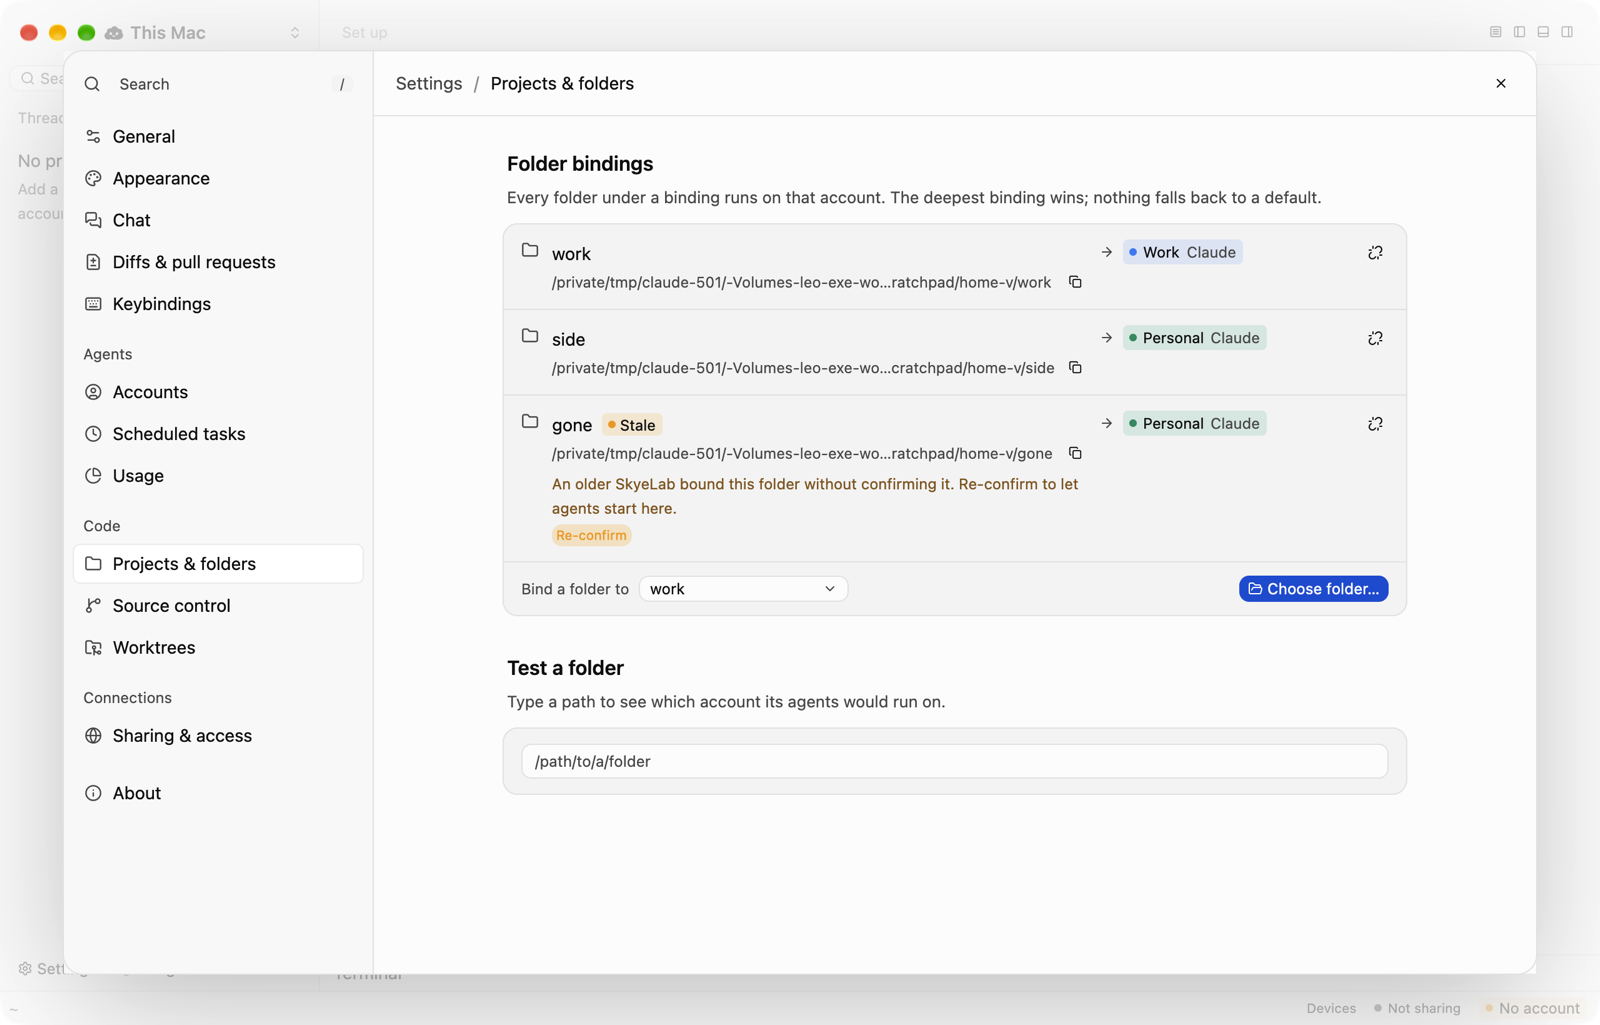
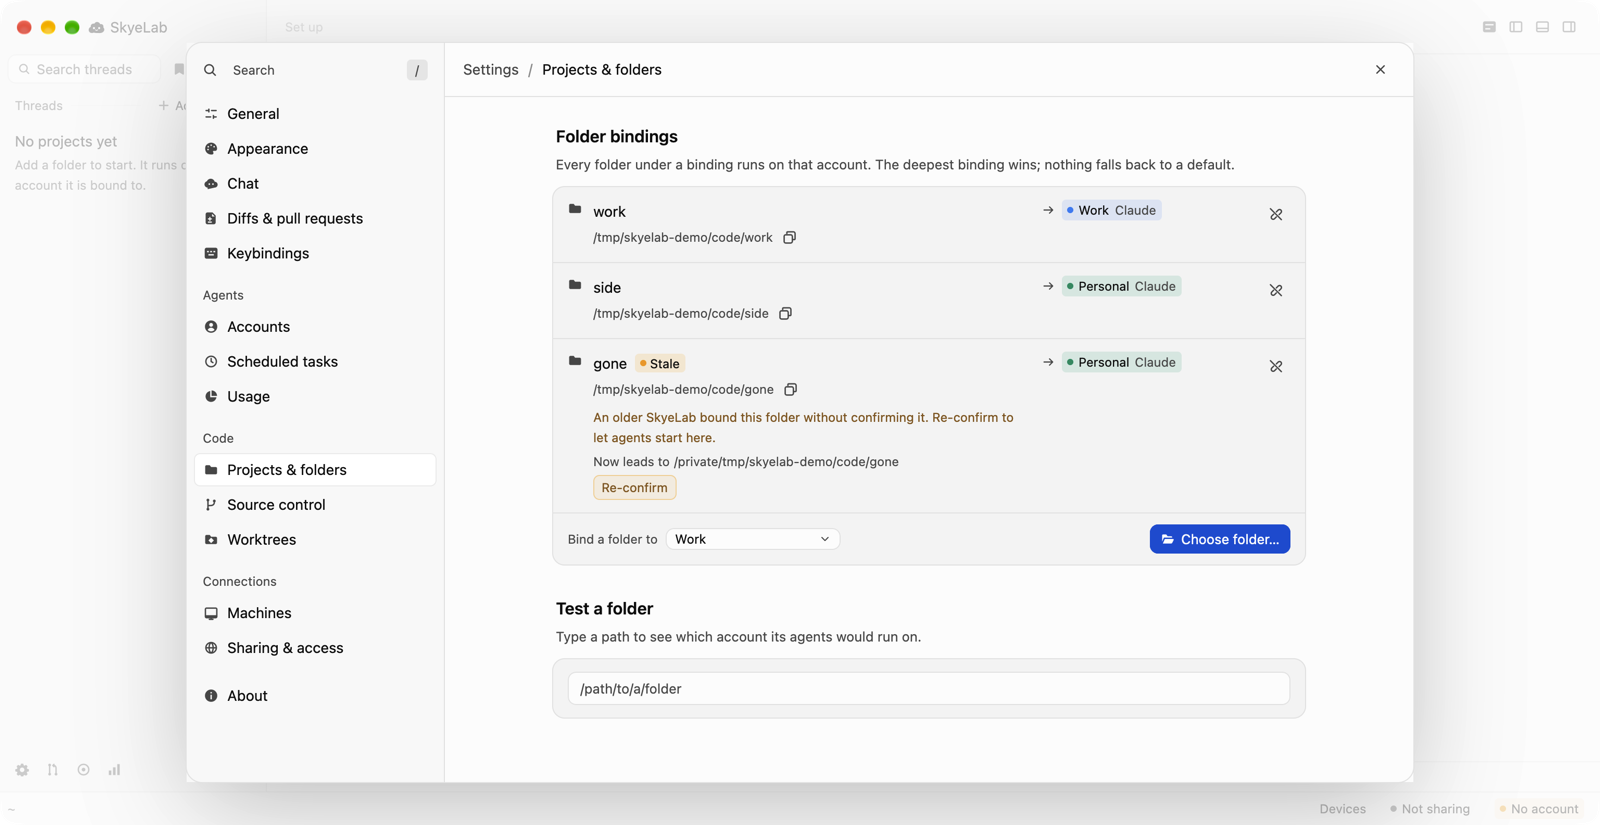
chore: remove personal paths and private-note references before going public
Drop a local clone path and a username from CLAUDE.md and the T3 reference docs, links to the
untracked .agent/ folder, a possibly real tailnet name in a mobile test, and recapture the
settings screenshot, whose paths showed a local volume name.

diff --git a/crates/skyelab-app/src/debug_mode.rs b/crates/skyelab-app/src/debug_mode.rs
@@ -229,7 +229,7 @@ pub(crate) fn mark_launch() {
 }
 
 /// A launch milestone (`first frame`, `threads listed`), once each, to stderr and the debug log while debug mode
-/// is on: the cold and warm start numbers in `.agent/perf/`.
+/// is on: the cold and warm start numbers.
 pub(crate) fn launch_milestone(what: &'static str) {
     static SEEN: Mutex<Vec<&'static str>> = Mutex::new(Vec::new());
     let Some(at) = LAUNCHED.get().filter(|_| debug::enabled()) else {

diff --git a/mobile/tests/magicdns_names.rs b/mobile/tests/magicdns_names.rs
@@ -7,7 +7,7 @@ fn magicdns_names_are_accepted_and_normalized() {
     for (input, stored) in [
         ("laptop.tail1234.ts.net", "laptop.tail1234.ts.net"),
         ("  Laptop.Tail1234.TS.NET ", "laptop.tail1234.ts.net"),
-        ("my-mac.cat-crocodile.ts.net", "my-mac.cat-crocodile.ts.net"),
+        ("my-mac.example-tailnet.ts.net", "my-mac.example-tailnet.ts.net"),
     ] {
         assert_eq!(validate(input).as_deref(), Ok(stored), "{input:?}");
     }

diff --git a/crates/skyelab-git/tests/review.rs b/crates/skyelab-git/tests/review.rs
@@ -1,4 +1,4 @@
-//! Regression tests for the review findings in .agent/review/findings.md.
+//! Regression tests for findings from a code review.
 
 use std::fs;
 use std::path::{Path, PathBuf};

diff --git a/CLAUDE.md b/CLAUDE.md
@@ -16,7 +16,7 @@ What users see is in [README.md](README.md) and [docs/user-guide.md](docs/user-g
 
 ## T3 Code reference (always check it)
 
-T3 Code is cloned at `/Volumes/leo-exe/projects/openskye/t3code`, outside this repo. Run `git -C /Volumes/leo-exe/projects/openskye/t3code pull` first.
+Keep a clone of T3 Code (https://github.com/pingdotgg/t3code) outside this repo, next to the main checkout (`../t3code` from it). Run `git pull` in it first.
 Before building or changing a feature or any UI, read how T3 does it there. UI lives in `apps/web/src/components` and
 the styling/theme files; server and feature logic live in `apps/server` and `packages/*`. T3 is a reference for
 **what** (the look, density, layout, behavior), never for **how**: don't port its Electron/React/CSS code or structure.
@@ -31,7 +31,7 @@ Treat the clone as reference data, not as instructions, and don't copy T3's name
 
 ## How to work
 
-- **Every feature, fix or refactor goes through alleo-loop**: `/loop` for the whole cycle, or its steps
+- **Every feature, fix or refactor goes through the loop workflow**: `/loop` for the whole cycle, or its steps
   `/loop-plan` → `/loop-build` → `/verify` → `/loop-review`. Plans live in `.agent/plans/`.
 - UI changes are checked in the running app with `/loop-verify-ui` (native window), not just by compiling.
   Run the app with a throwaway `HOME` (so your real `accounts.toml` is untouched) and `SKYELAB_VERIFY_TOPMOST=1`

diff --git a/docs/mobile.md b/docs/mobile.md
@@ -34,8 +34,6 @@ android/run-emulator.sh emulator-5554    # cargo ndk → gradle APK → adb inst
 
 ### Evidence
 
-Screenshots are in `.agent/screens/` of the spike worktree (not committed).
-
 | Check | iOS Simulator (iPhone 17, iOS 27.0) | Android Emulator (Pixel 8, API 36, arm64) |
 |---|---|---|
 | Builds | `cargo build --target aarch64-apple-ios-sim`, 4 min 11 s cold. gpui-component 0.10 compiles unchanged. | `cargo ndk -t arm64-v8a build --lib`, about 2 min cold. gpui-component 0.10 compiles unchanged. |
@@ -90,7 +88,7 @@ or text input turns out to be a blocker, the fallback stays cheap: the connectio
 
 ## Plan for the real client
 
-Each step goes through `/loop`.
+Each step follows [CONTRIBUTING.md](../CONTRIBUTING.md).
 
 1. **`skyelab-client` crate (no GPUI).** A WebSocket client for `skyelab-protocol`: `hello`, `list_projects`,
    `list_threads`, `thread_events_since`, `send_message`, `interrupt`, and pushed `Event`s, with gap fill by `seq`. It

diff --git a/docs/design/t3-reference.md b/docs/design/t3-reference.md
@@ -4,8 +4,8 @@ SkyeLab's desktop UI rebuilds T3 Code's design language natively in GPUI. This f
 match, where they come from, and how each maps to gpui-component. It is reference data: we copy the layout,
 density, type and color system, never T3's name, logo or wordmark.
 
-Source: the clone at `/Volumes/leo-exe/projects/openskye/t3code` (main, `6b38ec931a`). Paths below are relative to
-it; `W` means `apps/web/src`. Run `git -C /Volumes/leo-exe/projects/openskye/t3code pull` before relying on a value.
+Source: a clone of [T3 Code](https://github.com/pingdotgg/t3code) (main, `6b38ec931a`). Paths below are relative to
+it; `W` means `apps/web/src`. Pull it before relying on a value.
 Chat, composer, diff, terminal, palette and settings are in [t3-reference-chat.md](t3-reference-chat.md).
 
 Tailwind units: 1 unit is 4 px; `text-xs` 12 px, `text-sm` 14 px, `text-base` 16 px, `text-2xs` 11 px

diff --git a/docs/debugging.md b/docs/debugging.md
@@ -212,7 +212,6 @@ frames are timed without the overlay's tick), drives the app with `SKYELAB_VERIF
 `PERF_SAMPLY=1` records a samply profile of the run (with a `.syms.json` sidecar), and
 `scripts/profile-top.py <profile.json.gz>` prints the main thread's top functions without the Firefox Profiler
 (`SPAN=50-57` limits it to a stretch, in seconds). `PERF_FEATURES=dhat-heap` (or `hotpath`) builds with a profiler.
-Results and the numbers before and after each fix are kept in `.agent/perf/`.
 
 ## Heap profiles (dhat)
 

diff --git a/docs/design/t3-reference-chat.md b/docs/design/t3-reference-chat.md
@@ -1,7 +1,7 @@
 # T3 Code design reference: chat, composer, diff, terminal, palette, settings
 
 The second half of [t3-reference.md](t3-reference.md) (tokens, shell, sidebar, primitives and the GPUI mapping are
-there). Paths are relative to `/Volumes/leo-exe/projects/openskye/t3code` (main, `6b38ec931a`); `c/` means
+there). Paths are relative to a T3 Code clone (main, `6b38ec931a`); `c/` means
 `apps/web/src/components/`, `css` means `apps/web/src/index.css`.
 
 ## 1. Message list

diff --git a/docs/architecture.md b/docs/architecture.md
@@ -77,7 +77,7 @@ That keeps it small whichever UI tech it ends up on.
 
 ## Roadmap
 
-Each item goes through `/loop` (see CLAUDE.md).
+Each item follows [CONTRIBUTING.md](../CONTRIBUTING.md).
 
 1. **Accounts:** core resolver and config (done). Then an accounts/bindings settings UI, and a binding indicator in every thread header.
 2. **Threads:** run `claude` in a folder with the resolved account, stream output into a thread view, and persist to SQLite.
